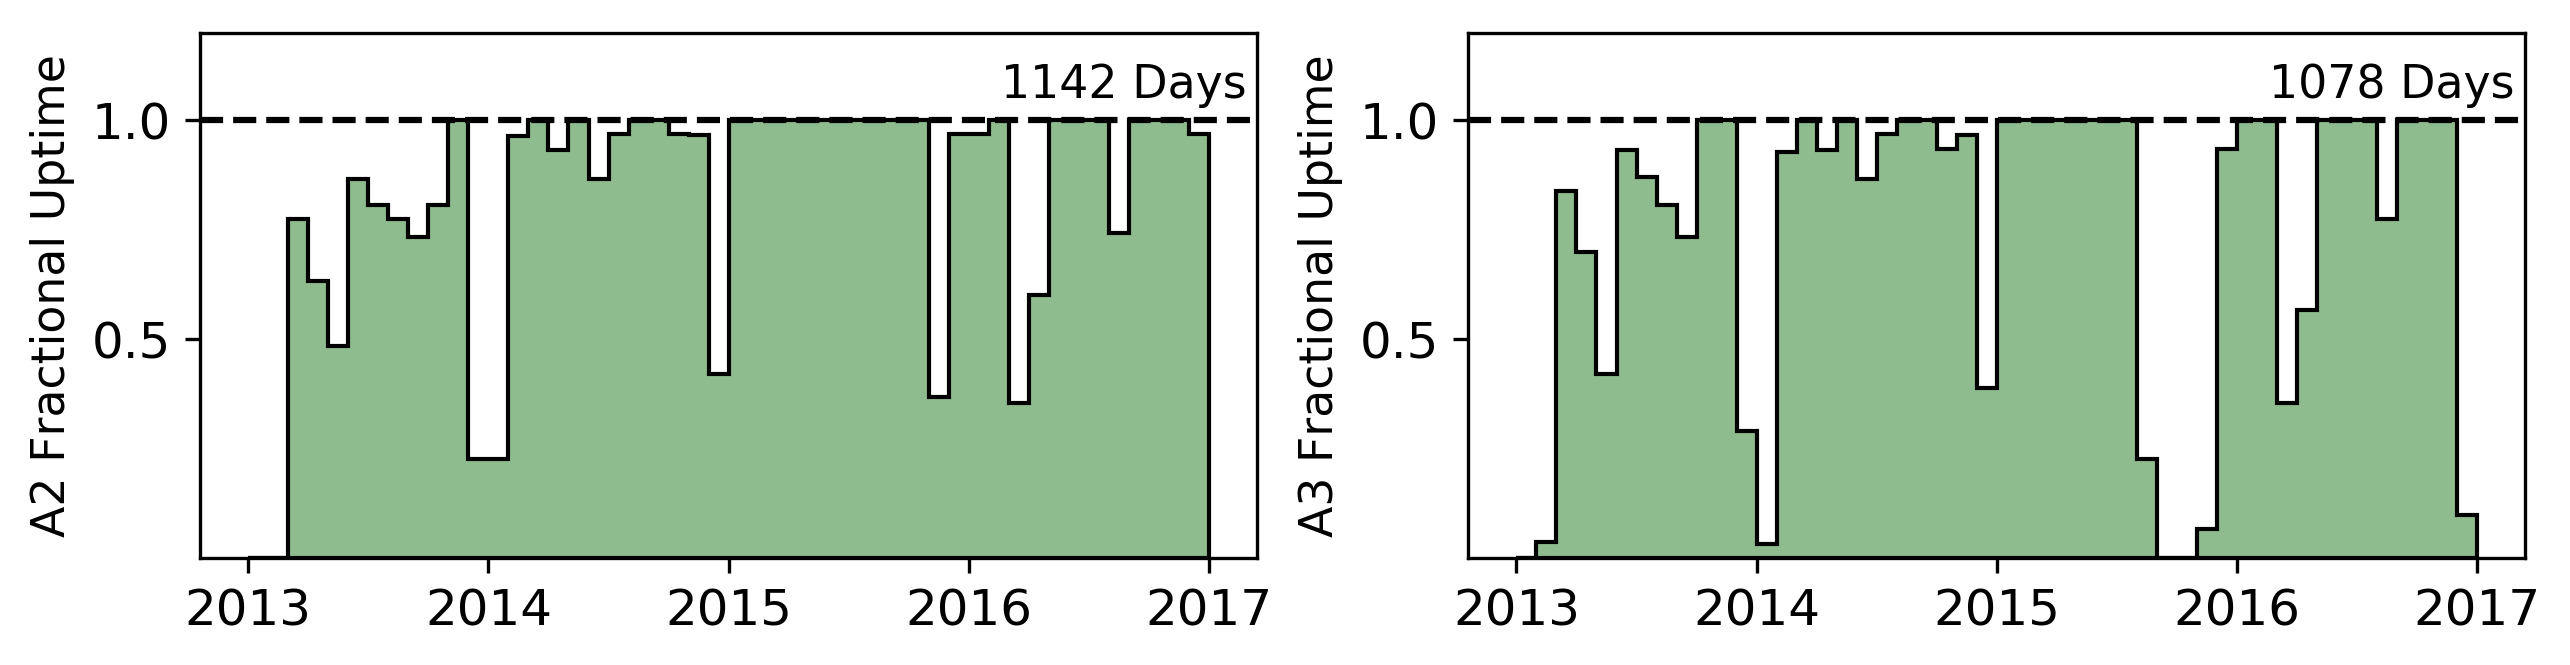
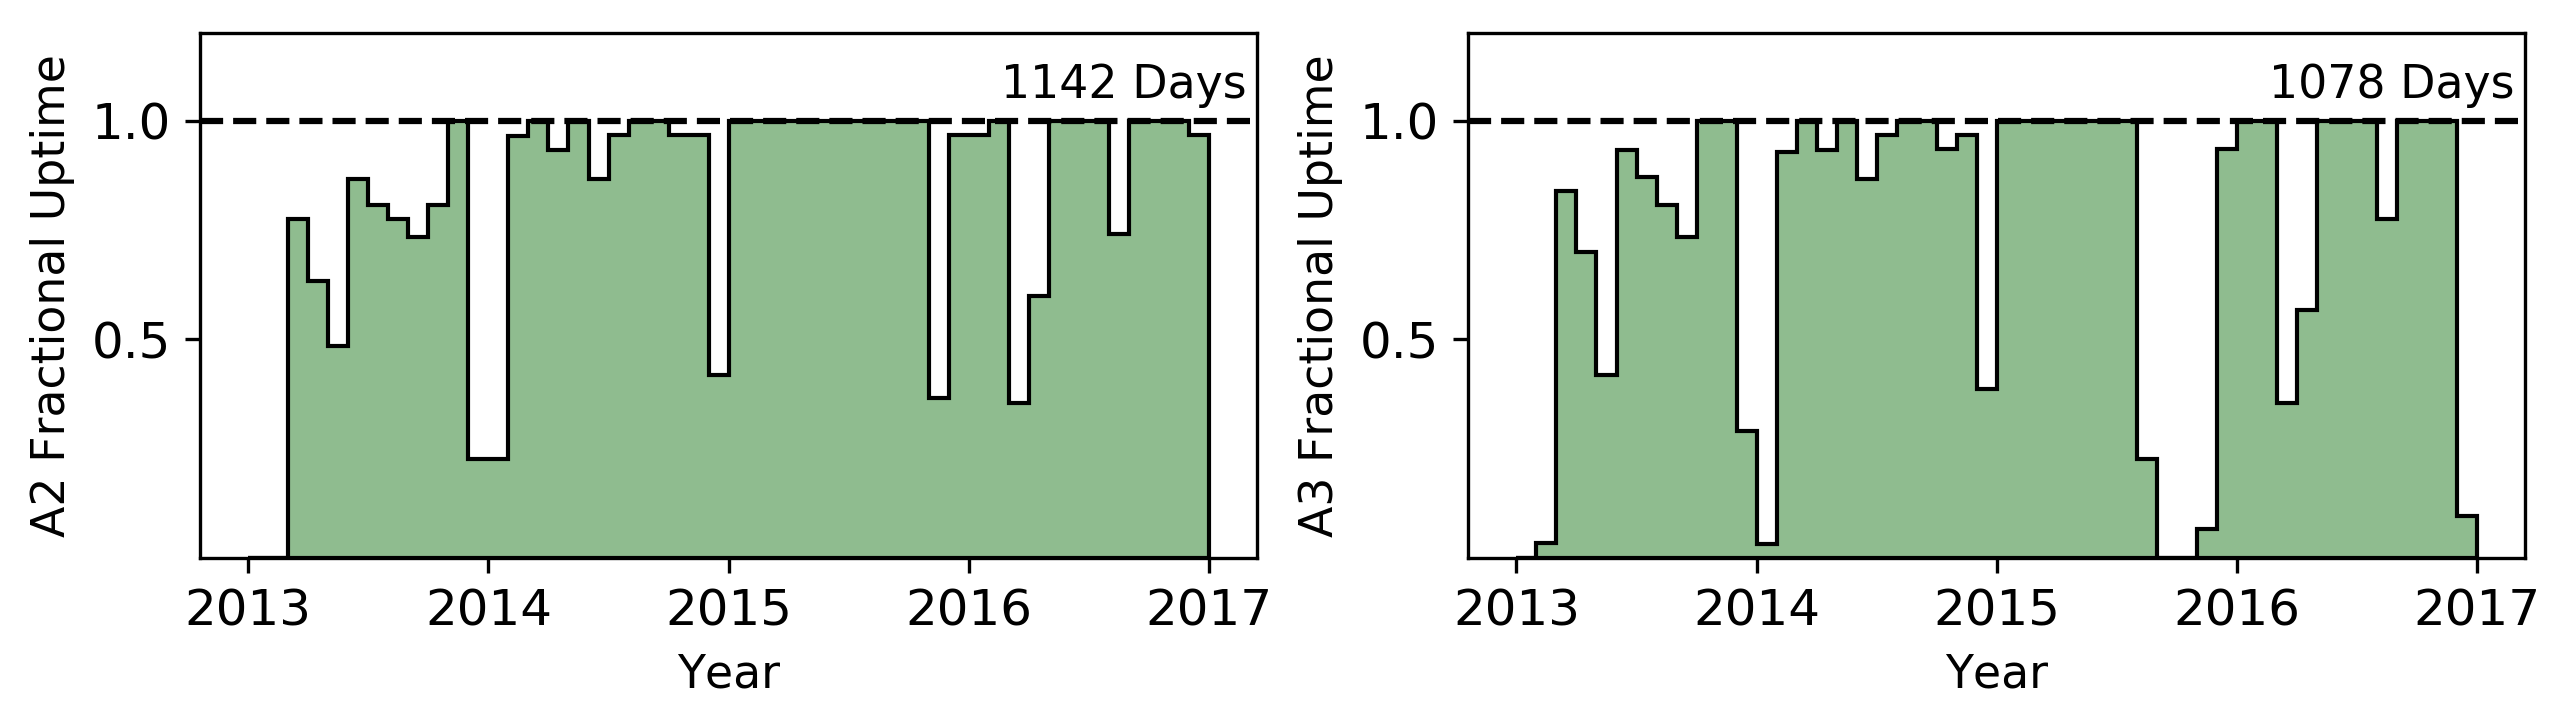
fix no axis label on livetime histogram

diff --git a/proceedings/2019.07-ICRC-2019/livetime/make_histo.py b/proceedings/2019.07-ICRC-2019/livetime/make_histo.py
@@ -22,12 +22,14 @@ def main():
 	ax_a2.hist([years_and_months],bins=bins,weights=data['A2Frac'],range=(start_year,stop_year),edgecolor='black',color='darkseagreen',histtype='stepfilled')
 	#, ,fill=False, stacked=True, histtype='step', color='red', linewidth=4, label='Testbed')
 	ax_a2.set_ylabel('A2 Fractional Uptime', size=11)
+	ax_a2.set_xlabel('Year', size=11)
 	ax_a2.text(0.99, 0.90, '1142 Days', horizontalalignment='right', verticalalignment='center', transform=ax_a2.transAxes,size=11)
 
 	
 	ax_a3=fig.add_subplot(num_total,2,2)
 	ax_a3.hist([years_and_months],bins=bins,weights=data['A3Frac'],range=(start_year,stop_year),edgecolor='black',color='darkseagreen',histtype='stepfilled')
 	ax_a3.set_ylabel('A3 Fractional Uptime', size=11)
+	ax_a3.set_xlabel('Year', size=11)
 	ax_a3.text(0.99, 0.90, '1078 Days', horizontalalignment='right', verticalalignment='center', transform=ax_a3.transAxes,size=11)
 
 
